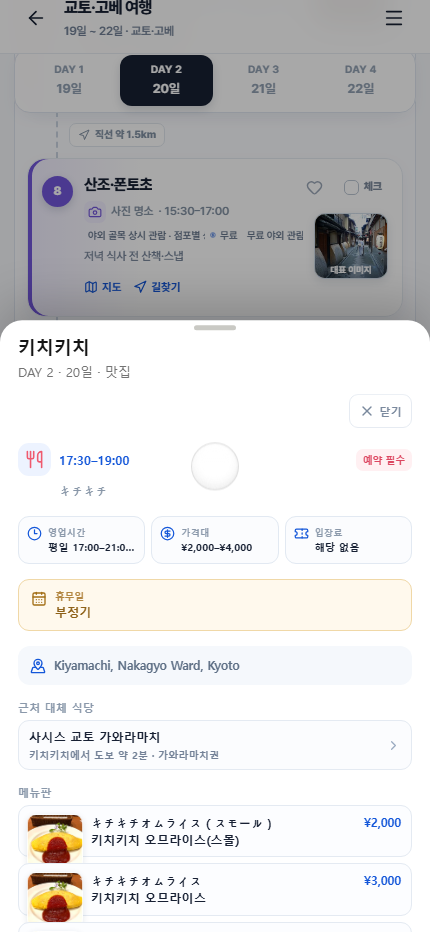
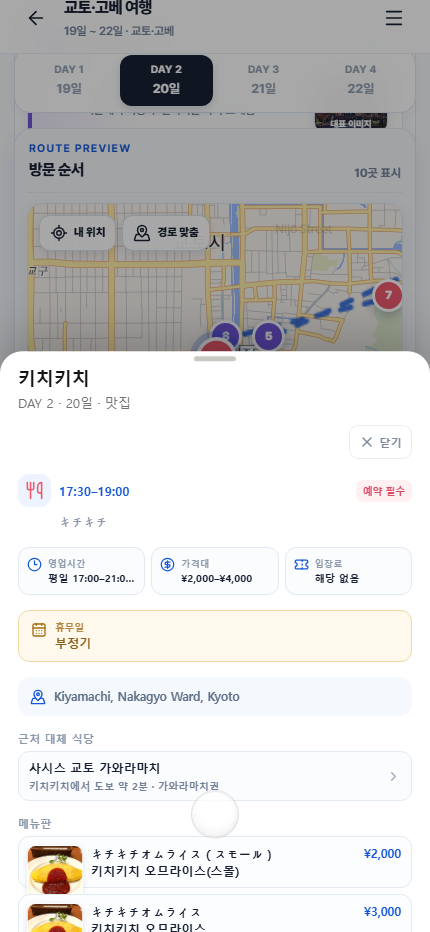
Keep itinerary map sticky and focus cards from markers

diff --git a/src/Prototype.tsx b/src/Prototype.tsx
@@ -411,7 +411,7 @@ function OfflineMapFallback({ places, onSelect }: { places: MapPlace[]; onSelect
   return <div className="offline-map" role="status"><div className="offline-map-icon"><MapIcon size={20} /></div><strong>지도를 불러올 수 없습니다</strong><p>저장된 일정과 주소는 계속 확인할 수 있어요.</p><div className="offline-place-list">{places.filter((place) => !place.optional).slice(0, 5).map((place) => <button type="button" key={place.id} onClick={() => onSelect(place)}><span className="offline-place-number" style={{ "--number-color": CATEGORY_COLORS[place.category] } as CSSProperties}>{place.order}</span><span>{place.name}</span><ChevronRight size={15} /></button>)}</div></div>;
 }
 
-function TripMap({ places, routePlaces, selectedPlace, onSelect, userLocation, onUserLocation, mode = "day" }: { places: MapPlace[]; routePlaces: MapPlace[]; selectedPlace: Place | null; onSelect: (place: MapPlace) => void; userLocation: Coordinate | null; onUserLocation: (location: Coordinate) => void; mode?: "day" | "all" }) {
+function TripMap({ places, routePlaces, selectedPlace, onSelect, onMarkerSelect, userLocation, onUserLocation, mode = "day" }: { places: MapPlace[]; routePlaces: MapPlace[]; selectedPlace: Place | null; onSelect: (place: MapPlace) => void; onMarkerSelect?: (place: MapPlace) => void; userLocation: Coordinate | null; onUserLocation: (location: Coordinate) => void; mode?: "day" | "all" }) {
   const [mapError, setMapError] = useState(false);
   const [isOnline, setIsOnline] = useState(() => navigator.onLine);
   const mapPlaces = places.filter((place) => coordinates(place));
@@ -435,7 +435,7 @@ function TripMap({ places, routePlaces, selectedPlace, onSelect, userLocation, o
   };
   const mapUnavailable = !isOnline || mapError;
 
-  return <section className={`trip-map ${mode === "all" ? "is-all-map" : ""}`} aria-label={mode === "all" ? "전체 여행 지도" : "오늘 일정 지도"}>
+  return <section className={`trip-map ${mode === "all" ? "is-all-map" : "is-schedule-map"}`} aria-label={mode === "all" ? "전체 여행 지도" : "오늘 일정 지도"}>
     <div className="map-label-row"><div><span className="eyebrow">ROUTE PREVIEW</span><strong>{mode === "all" ? "전체 경로" : "방문 순서"}</strong></div><span className="map-count">{mapPlaces.length}곳 표시</span></div>
     <div className="map-frame" data-scroll-drag="ignore">
       {mapUnavailable ? <OfflineMapFallback places={places} onSelect={onSelect} /> : <MapContainer center={center} zoom={13} minZoom={1} zoomControl={false} scrollWheelZoom doubleClickZoom className="leaflet-map" aria-label="한글 여행 지도">
@@ -444,7 +444,7 @@ function TripMap({ places, routePlaces, selectedPlace, onSelect, userLocation, o
         <ZoomControl position="bottomright" />
         <MapButtons routePlaces={routePlaces} onLocate={requestLocation} />
         {routePoints.length > 1 ? <Polyline positions={routePoints} pathOptions={{ color: "#1457d9", weight: 3, opacity: 0.8, dashArray: "6 8" }} /> : null}
-        {mapPlaces.map((place) => { const point = coordinates(place); if (!point) return null; const color = CATEGORY_COLORS[place.category]; const label = mode === "all" ? `${place.dayNumber}·${place.order}` : String(place.order); const Icon = categoryIcons[place.category]; return <Marker key={`${place.id}-${place.order}`} position={point} icon={createNumberIcon(label, selectedPlace?.id === place.id, Boolean(place.optional), color, markerOffsets.get(place.id) ?? 0)} eventHandlers={{ click: () => onSelect(place) }} alt={`DAY ${place.dayNumber} ${place.order}번 ${place.name}`}><Tooltip direction="top" offset={[0, -14]} opacity={0.96}><span className="map-tooltip"><Icon size={12} /> {place.name}<small>{categoryLabels[place.category]}</small></span></Tooltip></Marker>; })}
+        {mapPlaces.map((place) => { const point = coordinates(place); if (!point) return null; const color = CATEGORY_COLORS[place.category]; const label = mode === "all" ? `${place.dayNumber}·${place.order}` : String(place.order); const Icon = categoryIcons[place.category]; return <Marker key={`${place.id}-${place.order}`} position={point} icon={createNumberIcon(label, selectedPlace?.id === place.id, Boolean(place.optional), color, markerOffsets.get(place.id) ?? 0)} eventHandlers={{ click: () => (onMarkerSelect ?? onSelect)(place) }} alt={`DAY ${place.dayNumber} ${place.order}번 ${place.name}`}><Tooltip direction="top" offset={[0, -14]} opacity={0.96}><span className="map-tooltip"><Icon size={12} /> {place.name}<small>{categoryLabels[place.category]}</small></span></Tooltip></Marker>; })}
       </MapContainer>}
       {mapUnavailable ? <button type="button" className="map-retry" onClick={() => { setMapError(false); setIsOnline(navigator.onLine); }}><MapIcon size={15} /> 지도 다시 불러오기</button> : null}
     </div>
@@ -547,7 +547,7 @@ function PlaceDetailSheet({ place, day, open, onClose, note, onNoteChange, compl
   return <EditablePlaceDetailSheet place={place} day={day} open={open} onClose={onClose} note={note} onNoteChange={onNoteChange} completed={completed} favorite={favorite} onToggleComplete={onToggleComplete} onToggleFavorite={onToggleFavorite} onEdit={onEdit} onDelete={onDelete} />;
 }
 
-function ScheduleView({ activeDay, selectedPlace, selectedPlaceId, showAlternatives, setShowAlternatives, actualOnly, onToggleActualOnly, onAddPlace, onSelectPlace, onToggleComplete, onToggleFavorite, completedIds, favoriteIds, userLocation, onUserLocation, onDayChange }: { activeDay: TripDay; selectedPlace: Place | null; selectedPlaceId: string | null; showAlternatives: boolean; setShowAlternatives: (show: boolean) => void; actualOnly: boolean; onToggleActualOnly: () => void; onAddPlace: () => void; onSelectPlace: (place: MapPlace) => void; onToggleComplete: (id: string) => void; onToggleFavorite: (id: string) => void; completedIds: string[]; favoriteIds: string[]; userLocation: Coordinate | null; onUserLocation: (location: Coordinate) => void; onDayChange: (day: number) => void }) {
+function ScheduleView({ activeDay, selectedPlace, selectedPlaceId, showAlternatives, setShowAlternatives, actualOnly, onToggleActualOnly, onAddPlace, onSelectPlace, onFocusPlace, onToggleComplete, onToggleFavorite, completedIds, favoriteIds, userLocation, onUserLocation, onDayChange }: { activeDay: TripDay; selectedPlace: Place | null; selectedPlaceId: string | null; showAlternatives: boolean; setShowAlternatives: (show: boolean) => void; actualOnly: boolean; onToggleActualOnly: () => void; onAddPlace: () => void; onSelectPlace: (place: MapPlace) => void; onFocusPlace: (place: MapPlace) => void; onToggleComplete: (id: string) => void; onToggleFavorite: (id: string) => void; completedIds: string[]; favoriteIds: string[]; userLocation: Coordinate | null; onUserLocation: (location: Coordinate) => void; onDayChange: (day: number) => void }) {
   const primaryPlaces = activeDay.places.filter((place) => !place.optional);
   const restaurantAlternatives = activeDay.places.filter((place) => place.optional && place.category === "restaurant");
   const otherAlternatives = activeDay.places.filter((place) => place.optional && place.category !== "restaurant");
@@ -569,7 +569,7 @@ function ScheduleView({ activeDay, selectedPlace, selectedPlaceId, showAlternati
           <label className="alternative-toggle"><input type="checkbox" checked={showAlternatives} onChange={(event) => setShowAlternatives(event.target.checked)} /><span className="toggle-track" /><span>대체 후보</span></label>
         </div>
       </section>
-      <TripMap places={primaryPlaces.map(withDay)} routePlaces={primaryPlaces.map(withDay)} selectedPlace={selectedPlace} onSelect={onSelectPlace} userLocation={userLocation} onUserLocation={onUserLocation} />
+      <TripMap places={primaryPlaces.map(withDay)} routePlaces={primaryPlaces.map(withDay)} selectedPlace={selectedPlace} onSelect={onSelectPlace} onMarkerSelect={onFocusPlace} userLocation={userLocation} onUserLocation={onUserLocation} />
       <section className="itinerary-section" aria-label={`${activeDay.dayOfMonth}일 일정 목록`}>
         <div className="section-heading"><div><span className="eyebrow">{primaryPlaces.length} STOPS</span><h2>{actualOnly ? "실제 방문 기록" : "오늘의 동선"}</h2></div><span className="section-hint">체크=실제 방문</span></div>
         <CategoryLegend />
@@ -642,6 +642,21 @@ export default function Prototype() {
   useEffect(() => { if ("serviceWorker" in navigator) navigator.serviceWorker.register(`${import.meta.env.BASE_URL}sw.js`).catch(() => undefined); }, []);
 
   const selectDay = (dayOfMonth: number) => { const nextDay = visibleDays.find((day) => day.dayOfMonth === dayOfMonth); if (!nextDay) return; setSelectedDay(dayOfMonth); setSelectedPlaceId(nextDay.places[0]?.id ?? null); setView("schedule"); setSheetOpen(false); };
+  const focusPlace = (place: MapPlace) => {
+    setSelectedDay(place.dayOfMonth);
+    setSelectedPlaceId(place.id);
+    setView("schedule");
+    setSheetOpen(false);
+    window.setTimeout(() => {
+      const card = document.getElementById(`place-${place.id}`);
+      const map = document.querySelector<HTMLElement>(".trip-map.is-schedule-map");
+      const scroll = document.querySelector<HTMLElement>('[data-testid="mobile-scroll"]');
+      if (!card || !map || !scroll) return;
+      const targetTop = map.getBoundingClientRect().bottom + 12;
+      const nextScrollTop = scroll.scrollTop + card.getBoundingClientRect().top - targetTop;
+      scroll.scrollTo(0, Math.max(0, nextScrollTop));
+    }, 120);
+  };
   const selectPlace = (place: MapPlace) => { setSelectedDay(place.dayOfMonth); setSelectedPlaceId(place.id); setSheetOpen(true); window.setTimeout(() => document.getElementById(`place-${place.id}`)?.scrollIntoView({ behavior: "smooth", block: "center" }), 50); };
   const toggleId = (setIds: Dispatch<SetStateAction<string[]>>, id: string) => { setIds((current) => current.includes(id) ? current.filter((item) => item !== id) : [...current, id]); };
   const openEditor = (place: MapPlace | null = null) => { setSheetOpen(false); window.setTimeout(() => { setEditorPlace(place); setEditorOpen(true); }, 180); };
@@ -673,7 +688,7 @@ export default function Prototype() {
     setSelectedPlaceId(null);
     setSheetOpen(false);
   };
-  const appContent: ReactNode = view === "schedule" ? <ScheduleView activeDay={activeDay} selectedPlace={selectedPlace} selectedPlaceId={selectedPlaceId} showAlternatives={showAlternatives} setShowAlternatives={setShowAlternatives} actualOnly={actualOnly} onToggleActualOnly={() => { setActualOnly((current) => !current); setSheetOpen(false); }} onAddPlace={() => openEditor()} onSelectPlace={selectPlace} onToggleComplete={(id) => toggleId(setCompletedIds, id)} onToggleFavorite={(id) => toggleId(setFavoriteIds, id)} completedIds={completedIds} favoriteIds={favoriteIds} userLocation={userLocation} onUserLocation={setUserLocation} onDayChange={selectDay} /> : view === "map" ? <AllMapView allPlaces={allPlaces} selectedPlace={selectedPlace} onSelectPlace={selectPlace} onUserLocation={setUserLocation} userLocation={userLocation} /> : view === "reservations" ? <ReservationsView places={allPlaces} reservationDoneIds={reservationDoneIds} onToggleReservation={(id) => toggleId(setReservationDoneIds, id)} onSelectPlace={selectPlace} /> : <SavedView places={allPlaces} favoriteIds={favoriteIds} notes={notes} onSelectPlace={selectPlace} />;
+  const appContent: ReactNode = view === "schedule" ? <ScheduleView activeDay={activeDay} selectedPlace={selectedPlace} selectedPlaceId={selectedPlaceId} showAlternatives={showAlternatives} setShowAlternatives={setShowAlternatives} actualOnly={actualOnly} onToggleActualOnly={() => { setActualOnly((current) => !current); setSheetOpen(false); }} onAddPlace={() => openEditor()} onSelectPlace={selectPlace} onFocusPlace={focusPlace} onToggleComplete={(id) => toggleId(setCompletedIds, id)} onToggleFavorite={(id) => toggleId(setFavoriteIds, id)} completedIds={completedIds} favoriteIds={favoriteIds} userLocation={userLocation} onUserLocation={setUserLocation} onDayChange={selectDay} /> : view === "map" ? <AllMapView allPlaces={allPlaces} selectedPlace={selectedPlace} onSelectPlace={selectPlace} onUserLocation={setUserLocation} userLocation={userLocation} /> : view === "reservations" ? <ReservationsView places={allPlaces} reservationDoneIds={reservationDoneIds} onToggleReservation={(id) => toggleId(setReservationDoneIds, id)} onSelectPlace={selectPlace} /> : <SavedView places={allPlaces} favoriteIds={favoriteIds} notes={notes} onSelectPlace={selectPlace} />;
 
   return <div className="trip-app"><MobileScroll className="trip-scroll"><div className="trip-scroll-content"><AppHeader view={view} menuOpen={menuOpen} setMenuOpen={setMenuOpen} setView={setView} />{appContent}</div></MobileScroll><BottomNav view={view} setView={(nextView) => { setView(nextView); setMenuOpen(false); }} /><PlaceDetailSheet place={selectedPlace} day={selectedPlaceDay} open={sheetOpen} onClose={() => setSheetOpen(false)} note={selectedPlace ? notes[selectedPlace.id] ?? "" : ""} onNoteChange={(note) => { if (selectedPlace) setNotes((current) => ({ ...current, [selectedPlace.id]: note })); }} completed={selectedPlace ? completedIds.includes(selectedPlace.id) : false} favorite={selectedPlace ? favoriteIds.includes(selectedPlace.id) : false} onToggleComplete={() => { if (selectedPlace) toggleId(setCompletedIds, selectedPlace.id); }} onToggleFavorite={() => { if (selectedPlace) toggleId(setFavoriteIds, selectedPlace.id); }} onEdit={() => { if (selectedPlace) openEditor(selectedPlace); }} onDelete={deleteSelectedPlace} /><PlaceEditorSheet place={editorPlace} open={editorOpen} completed={editorPlace ? completedIds.includes(editorPlace.id) : false} onClose={() => { setEditorOpen(false); setEditorPlace(null); }} onSave={savePlaceDraft} /></div>;
 }

diff --git a/src/prototype.css b/src/prototype.css
@@ -16,6 +16,8 @@
 }
 
 .trip-app {
+  --trip-header-height: 104px;
+  --day-tabs-sticky-height: 80px;
   position: absolute;
   inset: 0;
   overflow: hidden;
@@ -290,6 +292,14 @@
   border-radius: 18px;
   background: rgba(255, 255, 255, 0.72);
   box-shadow: 0 5px 16px rgba(28, 53, 87, 0.045);
+}
+
+.trip-map.is-schedule-map {
+  position: sticky;
+  top: calc(var(--trip-header-height) + var(--day-tabs-sticky-height));
+  z-index: 8;
+  background: var(--paper);
+  box-shadow: 0 10px 22px rgba(28, 53, 87, 0.1);
 }
 
 .map-label-row {
@@ -588,7 +598,7 @@
 
 .day-tabs {
   position: sticky;
-  top: 104px;
+  top: var(--trip-header-height);
   z-index: 9;
   display: grid;
   grid-template-columns: repeat(4, minmax(0, 1fr));
@@ -667,7 +677,11 @@
 }
 
 .full-screen-screen .day-tabs {
-  top: 64px;
+  top: var(--trip-header-height);
+}
+
+.full-screen-screen .trip-app {
+  --trip-header-height: 64px;
 }
 
 .alternatives-section {

diff --git a/README.md b/README.md
@@ -144,6 +144,7 @@ Notion 토큰은 프론트 코드에 포함하지 않습니다. 여행 데이터
 - 루트 여행 허브에서 여행지별 앱으로 이동합니다. 공개 주소는 저장소를 가져간 계정의 Pages 주소를 사용합니다.
 - 교토·고베 앱은 `kyoto-kobe-trip/`에 독립적으로 보관되며, GitHub Pages에서는 `<destination-slug>` 경로로 열립니다.
 - Leaflet + OpenFreeMap/OpenStreetMap 기반 한글 지도, 날짜별 경로 미리보기, 장소별 Google Maps 장소 보기·길찾기를 제공합니다.
+- 일정 화면의 지도는 헤더와 DAY 탭 아래에 고정되고 장소 목록만 스크롤됩니다. 지도 마커를 누르면 상세 시트를 열지 않고 해당 장소 카드로 이동·강조하며, 카드 본문을 눌렀을 때만 상세 정보를 엽니다.
 - 숙소·사진 명소·맛집·카페·역·공항·짐 보관/이동을 아이콘·색상·범례로 구분하고, 지도 숫자 마커와 목록 번호에도 같은 카테고리 색상을 적용합니다.
 - 카드와 상세 화면에 주소, 영업시간, 휴무일, 가격, 입장료, 예약 상태, 운영 메모를 표시합니다. 식당·카페의 휴무일은 별도 표시하며 확인하지 못한 값은 `확인 필요`로 표시합니다.
 - 일본어 메뉴 아래에 한국어 번역과 가격을 병기하고, 메뉴별 음식 썸네일·장소 대표 이미지·지도 미리보기 폴백을 제공합니다.
@@ -222,8 +223,8 @@ Notion 토큰은 프론트 코드에 포함하지 않습니다. 여행 데이터
 | 화면 | 주요 기능 |
 | --- | --- |
 | 허브 | 여행지별 진입점, 여행 기간·지역 요약 |
-| 일정 | 헤더 아래 고정형 DAY 1~4 탭, 일정 제목, 실제 방문 수, 대체 후보 토글, 장소 추가 |
-| 지도 | 한글 지도, 방문 순서 마커, 겹치는 좌표 마커 분리, 내 위치·경로 맞춤 |
+| 일정 | 헤더 아래 고정형 DAY 1~4 탭·지도, 장소 목록 스크롤, 실제 방문 수, 대체 후보 토글, 장소 추가 |
+| 지도 | 한글 지도, 카테고리별 방문 순서 마커, 겹치는 좌표 마커 분리, 마커→카드 포커스, 내 위치·경로 맞춤 |
 | 장소 카드 | 카테고리 아이콘·색상, 대표 이미지, 영업시간, 휴무일, 가격, 체크·즐겨찾기 |
 | 상세 시트 | 주소, Google Maps·길찾기, 예약 링크, 메뉴 원문·번역, 음식 사진, 대체 식당 |
 | 저장 | 즐겨찾기 모음, 현지 메모 모음, 실제 여행 중 기록 확인 |
